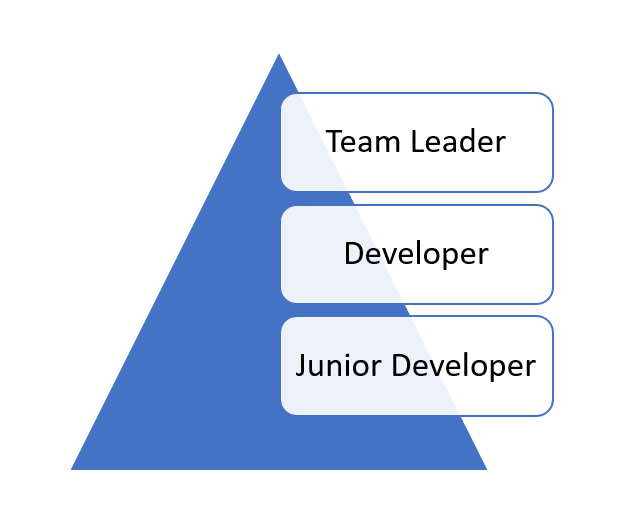
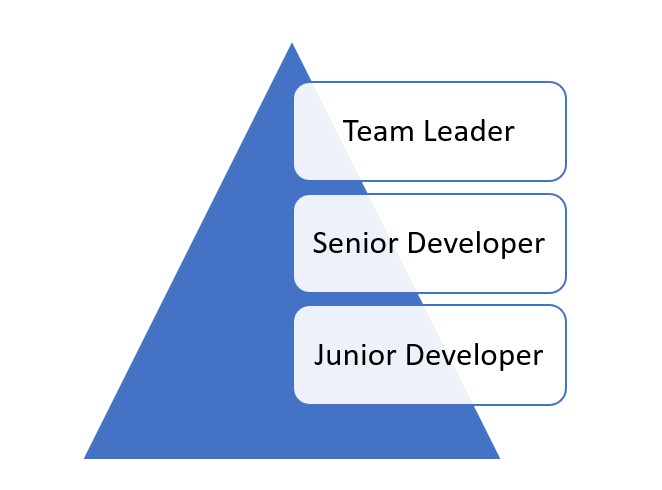
Update 2021-06-22-on-career-progression.md

diff --git a/_posts/2021-06-22-on-career-progression.md b/_posts/2021-06-22-on-career-progression.md
@@ -1,0 +1,194 @@
+---
+layout: post
+title: On Career Progression
+date: 2021-06-22 05:46:58 +0300
+categories:
+    - Personal Development
+    - Career
+    - Business
+---
+[Lionel Messi](https://en.wikipedia.org/wiki/Lionel_Messi) is, by many accounts, the best football player in the world.
+
+![](../images/2021/06/Messi.png)
+
+He is also the captain of the first men's team of the [Barcelona Football Club](https://www.fcbarcelona.com/en/).
+
+Imagine you are also a player in this team, and then the club announces that Messi intends to move to a different team the next season.
+
+![](../images/2021/06/Barcelona.png)
+
+This would mean over and above the vacancy for a forward, there would also be a vacancy for captain.
+
+Assume there are very able forwards chomping at the bits, and you are one of these.
+
+Assume, that you want to be the captain of Barcelona.
+
+One stratagem would be to be the best forward the club, and the league has ever seen. To play the best football of your life.
+
+Is being the best forward, or the best midfielder, or the best defender, or the best goalie good? Absolutely.
+
+Would it increase your standings in the club, in the league, and in the world?
+
+Absolutely.
+
+Should that be grounds to make you the captain?
+
+Absolutely not.
+
+Because being the best striker / midfielder / defender / goalkeeper has absolutely no bearing when it comes to being a captain.
+
+The question then arises - what is it that is expected of a team captain?
+
+Here are a few responsibilities of what I feel would be expected of a captain:
+
+1. Inspire / rally the team - either through example, or words or any other technique.
+2. On the pitch leadership - if the team is trailing and a player is sent off, changing strategy to focus on attack. Or vice versa if the team is leading.
+3. Represent the player's interests to the management.
+4. Look out for the individual welfare of players - for example if one team member is down because of a sibling in hospital, arranging for the team bus to ferry the entire team to the hospital to rally both player and sibling.
+5. Look out for the individual performance of each player and suggest ways to improve in case of lapses.
+
+Being a good striker is absolutely irrelevant for any of these.
+
+It would be a bonus, if in addition to carrying out the above, the captain was also the best in their position. But again - not relevant to the role of captain.
+
+Imagine also there is another team member who, after Messi's departure, it is discovered this team member is the oldest person on the team.
+
+Should this person the the captain by virtue of their age?
+
+Absolutely not.
+
+Imagine there is a third team member who it turns out has been on the starting lineup for longer than anyone else. Should this person be the captain?
+
+Absolutely not.
+
+Why? Because, again, these factors have nothing to do with the expectations of captain.
+
+So why do we apply this strategy to our careers?
+
+> Remember - you, an individual, are a business. In stiff competition with other businesses (individuals). For a finite market (employers)
+
+Let us take this hierarchy (simplified) in a software company.
+
+![](../images/2021/06/DeveloperHierarchy.png)
+
+Here are the (simplified) roles for each
+
+# Team Leader
+1. Develop technical strategy & oversee development of problem analysis
+2. Assign tasks, manage and manage senior developers
+
+# Senior Developer
+1. Convert problem analysis into technical designs
+2. Design and develop top level modules
+3. Break down modules into sub-tasks for assignment to junior developers
+4. Assign tasks, manage and manage junior developers
+
+# Junior Developer
+1. Write code to fulfill tasks assigned by a developer
+2. Write code to fix bugs assigned by a developer
+
+In such an organization, assume you were hired as a junior developer.
+
+What most of us would do is become really really good at writing code, and then expect to be promoted on the strength of that, or of how long we have been at that position. Or both.
+
+> **This is a flawed strategy**
+
+A better strategy would be this:
+1. Become really good at writing code
+2. Find out what are the expectations and responsibilities of a senior developer
+3. Start researching the skill-sets required, and starting to learn - either through structured training, or reading, YouTube videos, online courses, etc
+4. Talk to those who are currently performing that role and learn from either direct observation or seek outright mentorship. Or both.
+5. Participate, by asking questions and providing feedback during meetings and other engagements with the larger teams.
+6. Outright ask from management the prerequisites and requirements to be promoted from Junior Developer to Senior Developer, indicating an interest in the same.
+
+Assuming you are successful at all these during the next round of promotions you will stand out because:
+1. You have expressed interest in the new role
+2. You have done a good job in your current role
+3. During engagement with the larger team you have demonstrated some rudimentary knowledge from the next level; obviously not commensurate with the role, but certainly enough to strongly signal you are willing to learn and be up-skilled.
+
+And that is what is key - you need to stand out in some way. Remember:
+1. As you rise in the ranks, positions become fewer
+2. You are in competition not only with your colleagues, but also senior developers applying from outside the company.
+
+Which brings about a larger question:
+
+> Do you in fact want to be promoted?
+
+Contrary to to popular belief, not everyone wants to, or should be promoted.
+
+> Some people love what they do, and do not want to be promoted as that includes tasks that take time away from what they want to do
+
+You run into this problem a lot in creative roles - artists, designers, writers, programmers, etc. Promotion to be in charge of programmers necessarily means less time programming yourself. Are you prepared to pay this price to grow your career?
+
+Also, for the organization, if the person in fact does want the additional responsibilities, they necessarily will lose a good programmer as part of the price of gaining a new manager.
+
+If you are not willing or able to do one of the key tasks in the role you aspire to, prepare to be passed over for that promotion.
+
+Over the 15 years I have been running teams, I repeatedly run into this problem when a team member expects to be promoted but is unwilling to undertake crucial aspects of the role they are gunning for.
+
+Which brings about the biggest consideration:
+
+> What is your plan?
+
+Do you know what you want to be doing in
+* 50 Years?
+* 25 Years?
+* 10 Years?
+* 5 Years?
+* 2 Years?
+* 1 Year?
+* 6 Months?
+
+It is important to take some times to think about this, and review it periodically. As you grow and your interests change and your circumstances change, your plan and vision might change too.
+
+Having clarity around this allows you to take steps to day to fit into what your end game is.
+
+It also allows you to have some clarity of self.
+
+For instance, you might realize that you in fact do not like to, or want to deal with people.
+
+Imagine you work in a bank.
+
+If you come to this revelation, then it does not make sense to apply for a relationship management role, where the bulk of your time will involve working with customers directly on a one on one basis. It might make more sense to apply for a role in the treasury.
+
+> Promotion is not a buffet. You cannot pick and choose the responsibilities you want.
+
+Having said that, one aspect is so persistently a problem that it has required alternative thinking.
+
+Not everyone has the willingness or ability to manage people.
+
+But keeping them at their level as well is denying them progression, seniority, not to mention commensurate raises in pay and benefits.
+
+You run into this problem frequently in technical roles.
+
+A common solution to this, that we are also developing internally is "non managerial career progression". This is essentially a parallel growth plan that does not include people management responsibilities.
+
+I have occasionally ran into this problem when a managerial role opens up, and a prospective candidate is ether unwilling or unable to take up the managerial duties of the role. This, unfortunately rules them out of contention for the post.
+
+In conclusion
+
+Career growth is a continuous and evolving process requiring you to do continuously do a couple of things:
+1. Evaluate your plans and interests for the future, from 6 months all the way to 50 years
+2. Evaluate, based on your circumstances, time, etc who you really are and how that will affect your career choices
+3. Find out what are the prerequisites of the role you are applying for - all of them; and learn them, either on your own initiative or actively seek mentorship
+4. Participate in the larger team, to make the knowledge you are acquiring evident.
+5. Make it clear to all stakeholders your interest in going for the role
+6. Once you get the role, rinse and repeat.
+
+I would be remiss to leave without making this point:
+
+> A good job move is not necessarily a good career move.
+
+Again, it is critical to have some level of clarity about your end objectives over the next 6 months up to 50 years.
+
+Suppose your objective is to start your own company and you are considering two offers - one is from a multinational conglomerate and the other is from a startup.
+
+The conglomerate will certainly offer you a better salary and benefits, a straightforward role and regular hours.
+
+The startup, however will expose you to all facets of the business, and at one time or the other you will find yourself supporting sales, and then operations, and then engineering, and then finance. You will be pushed totally outside your comfort zone and will learn a lot.
+
+Given your life plan, which of these offers is best aligned with taking you towards your goals and dreams in the long term? It make make better sense in the short term to forgo the conglomerate and learn all that you can at the startup.
+
+Either way - this is a continuous evaluation you need to continuously and consistently make.
+
+Happy hacking!

diff --git a/_posts/2021-06-28-the-value-of-good-documentation.md b/_posts/2021-06-28-the-value-of-good-documentation.md
@@ -1,0 +1,98 @@
+---
+layout: post
+title: The Value Of Good Documentation
+date: 2021-06-28 15:34:22 +0300
+categories:
+    - The Business Of Software
+    - Documentation
+published: false
+---
+As a company, our primary stack is built on .NET, and we are on a current exercise to migrate our core systems to .NET 5.0.
+
+Recent developments, as well as strategic decisions have forced me to interface with systems and ecosystems not at code level as I am accustomed to, but at documentation level.
+
+And one of the things that stands out the most is the following:
+
+> Good documentation appears to be a secondary objective.
+
+Most institutions, including my own, I must regretfully confess, spend the bulk of our attention on the UI, UX and code, and then, when we have time, the documentation.
+
+There are a couple of reasons for this:
+
+* Documentation is not glamorous
+* Most people are not actually good at writing good documentation
+* The deployed software is generally considered the primary deliverable
+* The skill-set to write good code and the skill-set to write good documentation are very different.
+* For documentation it is easy to conflate quality over quantity
+* Good documentation cost resources (time, people and money) and seeing as everyone is cost constrained, if you need to cut costs, you start to cut the easiest targets, and documentation is first on the chopping board.
+
+The premise behind good documentation should make it easy for someone who is totally new to the thing you are documenting to do the following:
+* Understand at a broad level what your thing is, and how it works
+* Understand what problems you are trying to solve
+* Understand how it relates to existing technologies and how it complements / improves upon
+* Drill into a deeper level the plumbing and conventions of your thing, and how to use it, preferably with samples
+* A list of FAQs that addresses common issues / problems.
+
+Let me discuss a few of the examples of documentation that does not meet its objectives..
+
+# Invalid / Wrong Assumptions
+
+Let us look at one of Microsoft's key APIs - the object relational management framework [Entity Framework](https://docs.microsoft.com/en-us/ef/).
+
+Assume you have never used it at all. 
+
+This is the home page of the technology:
+
+![](../images/2021/06/EF%201.png)
+
+An obvious place to start is [Getting Started](https://docs.microsoft.com/en-us/ef/core/get-started/overview/first-app).
+
+You are immediately [dumped here](https://docs.microsoft.com/en-us/ef/core/get-started/overview/first-app?tabs=netcore-cli), where you are expected to run commands and write code.
+
+![](../images/2021/06/EF%202.png)
+
+But what is Entity Framework Core? And how does it relate to Entity Framework?
+
+![](../images/2021/06/EF%203.png)
+
+What is a context class? What is an entity class? What is a model?
+
+I don't think it is reasonable for the authors of this documentation to assume users know these things in advance.
+
+It doesn't get any better as you progress.
+
+![](../images/2021/06/Ef%204.png)
+
+Next you are expected to run a bunch of cryptic commands, with nothing but cursory explanations. What is a design package? What is a migration? What is a scaffold? Why does `database update` **create** the database?
+
+Let me not belabour the point. This documentation is written with the assumption that the developers reading already understand the technology, design considerations, terminologies etc.
+
+This is not a valid assumption.
+
+Due to the fact that Microsoft's own documentation is inadequate, a whole cottage industry of alternative documentation has developed, like [Learn Entity Framework](https://www.learnentityframeworkcore.com/)
+
+Maybe there's something in the Learn section
+
+![](../images/2021/06/EF%205.png)
+
+Alas!
+
+![](../images/2021/06/Ef%206.png)
+
+There is a laundry list of things you are already expected to know, and you get straight to writing code.
+
+Now in terms of quantity of documentation for Entity Framework - [there is lots and lots of it](https://docs.microsoft.com/en-us/ef/core/get-started/overview/first-app?tabs=netcore-cli).
+
+But bombarding users, especially new users, with lots of specialized documentation without fundamentals and context - does that help or hinder the adoption of the technology?
+
+# Unhelpful Documentation
+
+Another problem is documentation that is there, but is not helpful.
+
+SDK / API documentation is the most notorious for this.
+
+**Listing API end points and parameters is not complete documentation!**
+
+Having SwaggerGen or other such tools to generate OpenAPI documentation does not mean that the documentation is complete.
+
+You will still need to spend some time

diff --git a/_posts/2021-06-17-beware-migrating-from-newtonsoftjson-to-systemtextjson.md b/_posts/2021-06-17-beware-migrating-from-newtonsoftjson-to-systemtextjson.md
@@ -1,0 +1,14 @@
+---
+layout: post
+title: Beware - Migrating From Newtonsoft.Json To System.Text.Json
+date: 2021-06-17 08:43:26 +0300
+categories:
+    - System.Text.Json
+published: false
+---
+1. Remove usings to Newtonsoft
+2. JsonProperty change
+3. JsonConveter change
+4. internal properties are not serialized
+5. Delimited properties are not serialized correctly
+

diff --git a/_posts/2021-06-17-customize-date-serlialization-with-systemtextjson.md b/_posts/2021-06-17-customize-date-serlialization-with-systemtextjson.md
@@ -1,0 +1,9 @@
+---
+layout: post
+title: Customize Date Serlialization With System.Text.Json
+date: 2021-06-17 09:19:50 +0300
+categories:
+    - System.Text.Json
+published: false
+---
+

diff --git a/_posts/2021-06-15-improve-performance-by-pre-sizing-collections.md b/_posts/2021-06-15-improve-performance-by-pre-sizing-collections.md
@@ -1,0 +1,8 @@
+---
+layout: post
+title: Improve Performance By Pre-sizing Collections
+date: 2021-06-15 17:35:33 +0300
+categories:
+published: false
+---
+
